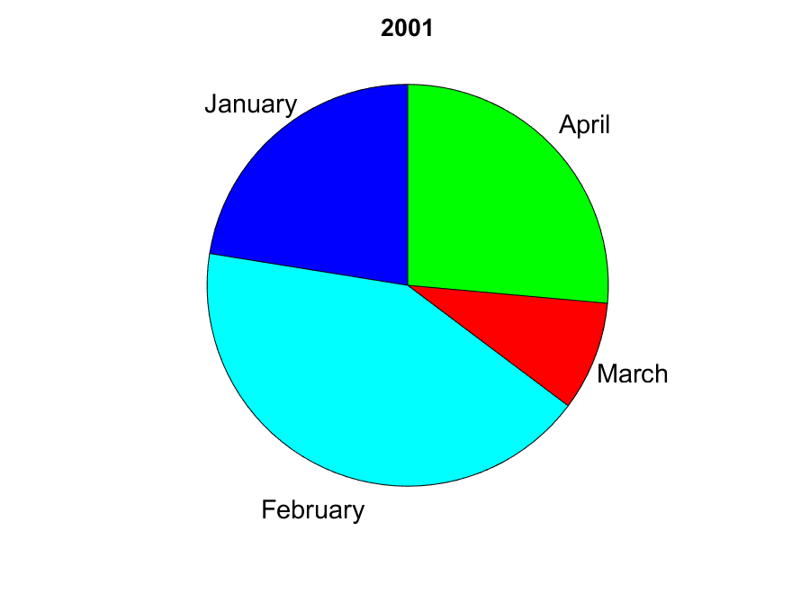
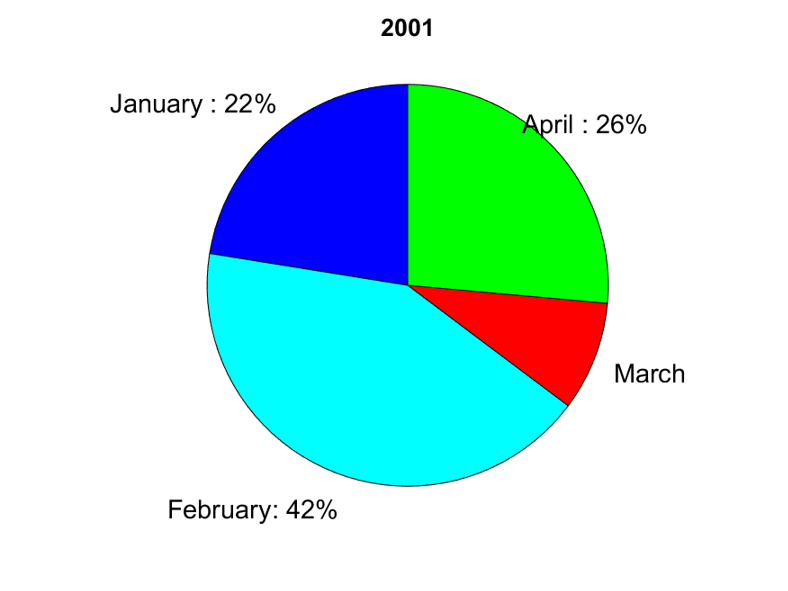
seqgen changes + random sessions

diff --git a/branch_itracker/utils/seqgen.m b/branch_itracker/utils/seqgen.m
@@ -1,8 +1,11 @@
-function [seq] = seqgen(n)
+function [seq] = seqgen(n,type)
 %% sequence generator function for 2-back and 3-back
 % example 
 % n = 2 | 3 ;
 % sequence = seqgen(2)
+
+if (strcmp(type,'pos') || strcmp(type,'char') )
+
 if n == 0
     seq = [
     11    14    11     3     7     7     4    12    16    11     9    16     7    10    16    15     6     8     6    16
@@ -48,4 +51,52 @@ elseif n==3
             2 8 3 2 1 10 2 15 10 3 11 10 3 11 8 7 11 8 3 4;...
             4 14 15 4 14 15 13 7 2 13 8 4 13 9 4 7 10 3 6 10;...
             1 10 15 12 11 13 2 8 13 9 2  9 6 2 4 9 10 4 1 10];
+end
+
+else
+    
+if n == 0
+    seq = [
+    11    14    11     3     7     7     4    12    16    11     9    16     7    10    16    15     6     8     6    16
+     1    12    13     3     9     1     8     5     5     3    15     3     8     5    12    14     3    12     9     9
+     2     3     8     7     7    16     6     7    12     3    11    14     2     5     6     5     3    12    11     6
+     9    11     7    14    11     3    16     9    11    16     4    11    10    10    10    10     7    11     7     2
+     2     9    14    13    11     2    15    16     9     3     6     7     4     5     2     1     2     1    14    10
+    14    16     2     1     5     6     1     7    12     1     8     4     7    14    15     7    10     2    12    13
+    ];
+elseif n == 1
+    seq = [
+        7	19	20	13	1	10	11	5	9	12	8	15	6	14	18	16	17	4	3	2 ;
+        14	10	16	15	17	1	9	4	13	18	20	19	2	8	11	3	6	12	5	7 ;
+        19	11	13	6	12	8	16	2	20	4	14	9	18	7	10	17	15	1	3	5 ;
+        3	11	15	12	18	20	8	16	1	5	6	4	10	14	17	13	19	7	9	2 ;
+        6	19	4	16	18	2	5	10	9	7	20	14	11	12	13	8	17	3	1	15 ;
+        17	10	15	16	5	7	1	2	20	13	12	11	19	3	6	4	9	8	14	18 ;
+        11	9	10	20	8	14	12	13	6	4	2	16	1	3	5	15	17	18	19	7 
+        ];
+            
+    
+elseif n==2
+    seq = [
+        7	19	20	13	1	10	11	5	9	12	8	15	6	14	18	16	17	4	3	2 ;
+        14	10	16	15	17	1	9	4	13	18	20	19	2	8	11	3	6	12	5	7 ;
+        19	11	13	6	12	8	16	2	20	4	14	9	18	7	10	17	15	1	3	5 ;
+        3	11	15	12	18	20	8	16	1	5	6	4	10	14	17	13	19	7	9	2 ;
+        6	19	4	16	18	2	5	10	9	7	20	14	11	12	13	8	17	3	1	15 ;
+        17	10	15	16	5	7	1	2	20	13	12	11	19	3	6	4	9	8	14	18 ;
+        11	9	10	20	8	14	12	13	6	4	2	16	1	3	5	15	17	18	19	7 
+        ];
+elseif n==3
+    seq = [
+        7	19	20	13	1	10	11	5	9	12	8	15	6	14	18	16	17	4	3	2 ;
+        14	10	16	15	17	1	9	4	13	18	20	19	2	8	11	3	6	12	5	7 ;
+        19	11	13	6	12	8	16	2	20	4	14	9	18	7	10	17	15	1	3	5 ;
+        3	11	15	12	18	20	8	16	1	5	6	4	10	14	17	13	19	7	9	2 ;
+        6	19	4	16	18	2	5	10	9	7	20	14	11	12	13	8	17	3	1	15 ;
+        17	10	15	16	5	7	1	2	20	13	12	11	19	3	6	4	9	8	14	18 ;
+        11	9	10	20	8	14	12	13	6	4	2	16	1	3	5	15	17	18	19	7 
+        ];
+    
+    
+    
 end

diff --git a/branch_itracker/run_practice.m b/branch_itracker/run_practice.m
@@ -17,7 +17,7 @@ addpath('tobii_api\');
 [outfile,eyefile, subid, subage, gender,trialid] = userlog();
 
 %paramaeters
-nb_stimuli = 12;
+nb_stimuli = 6;
 k = 0;
 r = randi([0 1]);
 % threshold for 0-back for BAR Graphs
@@ -41,8 +41,8 @@ PsychDefaultSetup(2);
 Screen('Preference', 'SkipSyncTests', 1); 
 Screen('Preference', 'VisualDebugLevel', 3);
 Screen('Preference', 'SuppressAllWarnings', 1);
-%[win,rect] = screenSetup(0);
-[win,rect] = screenSetup(2);
+[win,rect] = screenSetup(0);
+%[win,rect] = screenSetup(2);
 
 
 %key setup
@@ -52,13 +52,13 @@ escKey = KbName('ESCAPE');
 
 %Session sequence
 n_sessions = [
-    3     1     4     2     3     1     4     2     3     1     4     2
+    1     2     3     4     1     2     3     4     3     1     4     2
     4     2     3     1     4     2     3     1     4     2     3     1
     ];
 
 
 n_cp = [
-    0 1 0 1 2 3 2 3 1 0 1 0
+    0 1 2 3 3 2 1 0 1 0 1 0
     1 0 3 2 3 2 1 0 2 3 3 2
     ];% session wise n back
 
@@ -80,15 +80,15 @@ for t_id = 1:1%nb_blocks % This controls how many blocks you want to runs
     eye_ref_time = datestr(now,'HH:mm:ss.FFF');
     disp(['Trial' num2str(s_id) 'started'])
     system(['PortWrite ' comid ' ' num2str(midx_trial_start)]);
-    for set_id = 1:size(n_sessions,2)
+    for set_id = 1:4%size(n_sessions,2)
         disp(['Session' num2str(set_id) 'started'])
         system(['PortWrite ' comid ' ' num2str(midx_session_start)]);
         n= n_sessions(s_id,set_id);
         if length(n_cp(s_id,:)) >= set_id
             nback = n_cp(s_id,set_id); %n-back
-            seq = seqgen(nback);
-            s = seq(randi([1,size(seq,1)]),:); % randomly selecting one out of 4 sequences for 2-back task
             type = stacktype(n);
+            seq = seqgen(nback,type);
+            s = seq(randi([1,size(seq,1)]),:); % randomly selecting one out of 4 sequences for 2-back task
             [I,le,sz1] = selimgtype(type);
            
             Ir=[];
@@ -108,8 +108,12 @@ for t_id = 1:1%nb_blocks % This controls how many blocks you want to runs
         % Based on the c value any one of the color is choosen by the below
         % function
         % color [1.blue; 2.cyan; 3.red; 4.green]
-        clr = chooseClr(c);
-        month = choosemnth(c); yr = yrgen(s) ;
+		 if strcmp(type,'pie')
+            disp('choose mar');
+            c=3;
+        end
+		clr = chooseClr(c);
+   		month = choosemnth(c); yr = yrgen(s) ;
         [Q, Q1] = type_instructions(type, nback, month);
         instruction_show(win, Q,1 );
         fixCross(win,rect);

diff --git a/branch_itracker/run_experiment.m b/branch_itracker/run_experiment.m
@@ -56,7 +56,6 @@ n_sessions = [
     4     2     3     1     4     2     3     1     4     2     3     1
     ];
 
-
 n_cp = [
     0 1 0 1 2 3 2 3 1 0 1 0
     1 0 3 2 3 2 1 0 2 3 3 2
@@ -64,6 +63,18 @@ n_cp = [
 
 
 
+idx=randperm(size(n_sessions,2)/2);
+for j=1:size(n_sessions,1)
+    for i =1:size(n_sessions,2)/2
+        new_session(j,2*i-1)=n_sessions(j,2*idx(i)-1);
+        new_session(j,2*i)  =n_sessions(j,2*idx(i));
+        new_cp(j,2*i-1)=n_cp(j,2*idx(i)-1);
+        new_cp(j,2*i)  =n_cp(j,2*idx(i));
+    end
+end
+
+n_sessions=new_session;
+n_cp=new_cp;
 
 n_bp = n_cp;
 
@@ -86,9 +97,9 @@ for t_id = 1:1%nb_blocks % This controls how many blocks you want to runs
         n= n_sessions(s_id,set_id);
         if length(n_cp(s_id,:)) >= set_id
             nback = n_cp(s_id,set_id); %n-back
-            seq = seqgen(nback);
-            s = seq(randi([1,size(seq,1)]),:); % randomly selecting one out of 4 sequences for 2-back task
             type = stacktype(n);
+            seq = seqgen(nback,type);
+            s = seq(randi([1,size(seq,1)]),:); % randomly selecting one out of 4 sequences for 2-back task
             [I,le,sz1] = selimgtype(type);
            
             Ir=[];
@@ -108,6 +119,10 @@ for t_id = 1:1%nb_blocks % This controls how many blocks you want to runs
         % Based on the c value any one of the color is choosen by the below
         % function
         % color [1.blue; 2.cyan; 3.red; 4.green]
+        if strcmp(type,'pie')
+            disp('choose mar');
+            c=3;
+        end
         clr = chooseClr(c);
         month = choosemnth(c); yr = yrgen(s) ;
         [Q, Q1] = type_instructions(type, nback, month);

diff --git a/branch_itracker/utils/type_instructions.m b/branch_itracker/utils/type_instructions.m
@@ -93,13 +93,14 @@ elseif strcmp(type,s2)
        Q1h = ['                    ' month '                                                  ' num2str(idx) '          '];
     else
         Q = ['A sequence of pie charts for rainfall data from January to April over years will be displayed.\n\n' ...
-            'Click     if you observe the rainfall for '    '    of the current year is higher than      '
+            'Click     if you observe the rainfall for '    '    of the current year is        '
             ];
        Qh = ['                                                                                              \n\n' ...
-            '      YES                                 ' month '                                    50cms'
+            '      YES                                 ' month '                        highest'
             ];
-        Q1 = ['If the rainfall for '    '    is greater the      then click YES otherwise NO'];
-       Q1h = ['                    ' month '                50cm                            '];
+        
+       Q1 = ['If the rainfall in the '    '    is the         among all, then click YES'];
+      Q1h = ['                       ' month '        highest                          '];
     end
     
 end

diff --git a/branch_itracker/etc/pie_fig.m b/branch_itracker/etc/pie_fig.m
@@ -1,5 +1,16 @@
 close all; clear;
 load('barpie_data.mat')
+load('percdt.mat')
+
+labeldata=[]
+for j= 1:16
+    for k =1:4
+        a{k}=([labels{k} ' (' num2str(pt(j,k)) '%)']);
+        
+    end
+    labeldata=[labeldata;a];
+end
+
 n = [];
 D = [];
 
@@ -7,7 +18,7 @@ for i = 1:16
     figure()
     ax = gca;
     D = [D;dt(i,:)];
-    p = pie(dt(i,:),labels);
+    p = pie(dt(i,:),labeldata(i,:));
     set(p(2:2:8),'FontSize',14)
     color = [0 0 1; 0,1,1; 1 0 0; 0 1 0];
     colormap(color)
@@ -27,4 +38,4 @@ for i = 1:16
     fname = [name '.png'];
     saveas(gcf,fname)
 end
-
+hText = findobj(p,'Type','text');

diff --git a/branch_itracker/etc/batch_resize/batch_imresize.m b/branch_itracker/etc/batch_resize/batch_imresize.m
@@ -1,0 +1,29 @@
+function batch_imresize(type,scale, save)
+if nargin < 2
+    scale = 0.5;
+end
+if nargin < 3
+    save = 0;
+end
+
+if strcmp(type,'bar')
+    imd = imageDatastore('bar\');
+elseif strcmp(type,'pie')
+    imd = imageDatastore('pie\');
+else
+    return;
+end
+I = imd.Files;
+for i = 1:16
+Ib{i} = readimage(imd,i);
+I = Ib{i};
+I = imresize(I,scale);
+name = type;
+fname = [name num2str(1999+i) '.png'];
+imshow(I)
+if save
+imwrite(I,fname)
+fprintf('saving image: %s\n', fname)
+end
+end
+end
